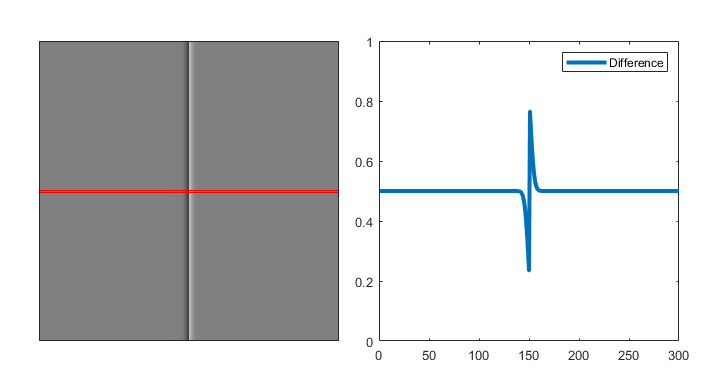
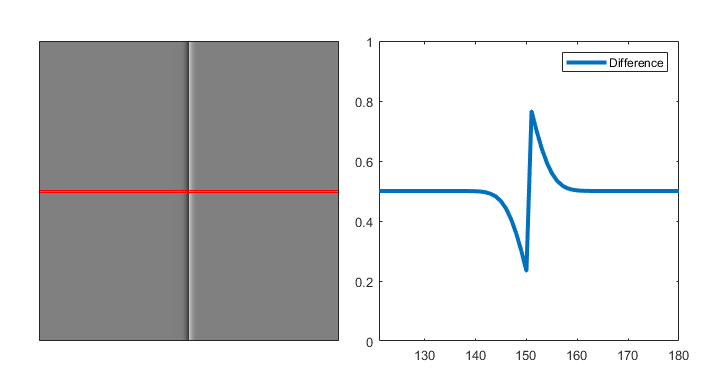
New 	- 	Fixel Detailizer 3 Blog Post. Fixed 	- 	B Known Issues 	-	C To Do 	- 	Enable MathJax (See documentation). Remarks 	- 	E

diff --git a/_posts/2019-04-26-fixel-detailizer-3.md b/_posts/2019-04-26-fixel-detailizer-3.md
@@ -69,7 +69,22 @@ Blurring with *Gaussian Blur* creates smoothing of the edge. The extent of the s
 
 {% include note.html content="The `Radius` parameter in the *Gaussian Blur* in Photoshop is actually the Standard Deviation of the [*Gaussian Kernel*](https://en.wikipedia.org/wiki/Gaussian_blur) the filter uses." %}
 
-What about sharpening? Well there is an important intermediate step before the sharpening. It is the substation of the blurred image from the original image.
+What about sharpening? Well there is an important intermediate step before the sharpening. It is the subtraction of the blurred image from the original image.
+
+![][Figure003]{:class="center-img"}
+
+As can be seen, the difference (The Details layer as it is commonly named in the *Image Processing* world) has few properties:
+
+ *	Symmetric - It is symmetric to the left left and right in its extent.
+ *	Anti Symmetric - Its values are negative mirroring of each other.
+
+{% include note.html content="In the illustration above we added 50% Gray to the Difference in order to see it in the [0, 1] range. This is also what's Photohop's *High Pass Filter* does." %}
+
+Sharpening is all about multiplying this *Difference* by a factor and adding it back to the image.  
+
+![][Figure004]{:class="center-img"}
+
+fd
 
 ### Edge Preserving Blurring & Sharpening
 
@@ -114,4 +129,5 @@ Key Words: [Fixel Algorithms][99], [Fixel][99], [Fixel Detailizer][98], [Image E
   [Figure001]: {{site.baseurl}}/news/images/FixelDetailizer3/BlogPost0001.png "Figure 001 - Reference Image"
   [Figure002]: {{site.baseurl}}/news/images/FixelDetailizer3/BlogPost0002.png "Figure 002 - Blurring Effect"
   [Figure003]: {{site.baseurl}}/news/images/FixelDetailizer3/BlogPost0003.png "Figure 003 - The Difference"
+  [Figure004]: {{site.baseurl}}/news/images/FixelDetailizer3/BlogPost0004.png "Figure 004 - The Sharpened Image"
   
